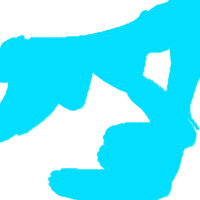
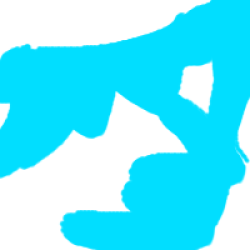
画像追加

diff --git a/GFF2-4B/GFF2-4B/BossHands.cpp b/GFF2-4B/GFF2-4B/BossHands.cpp
@@ -6,6 +6,9 @@ BossHands::BossHands(int _who) {
 
 	LoadDivGraph("resource/images/Boss/BossHandsImg.png", 2, 2, 1, 200, 200,Hands_img);
 
+	hi[0] = LoadGraph("resource/images/Boss/Boss.png",true);
+	bosf[0] = LoadGraph("resource/images/Boss/BossFace.png", true);
+	bosf[1] = LoadGraph("resource/images/Boss/LongTuru.png", true);
 	location.x = 700;
 	location.y = -500;
 	erea.height = 190;
@@ -35,12 +38,19 @@ void BossHands::Update(GameMain* main) {
 }
 
 void BossHands::Draw() const {
-	DrawGraphF(location.x, location.y,Hands_img[0], TRUE);
+
+	DrawGraphF(location.x + 100, location.y + 50, bosf[1], TRUE);
+	DrawGraphF(location.x, location.y,hi[0], TRUE);
+
 
 #ifdef _DEBUG
 	DrawFormatString(100, 0, 0xffffff, "%d", switching);
 	DrawFormatString(159, 0, 0xff00ff, "HP%d", hp);
-	DrawGraph(200, 300, Hands_img[1], TRUE);
+	//DrawGraphF(500, 300, hi[0], TRUE);
+	//DrawGraphF(500, 490, hi[0], TRUE);
+	//DrawGraphF(480, 300, hi[0], TRUE);
+	//DrawGraphF(480, 490, hi[0], TRUE);
+	//DrawGraph(460, 80, bosf[0], TRUE);
 //	DrawBox(-erea.width, -erea.height, erea.width, erea.height, 0xffffff, TRUE);
 
 #endif // _DEBUG
